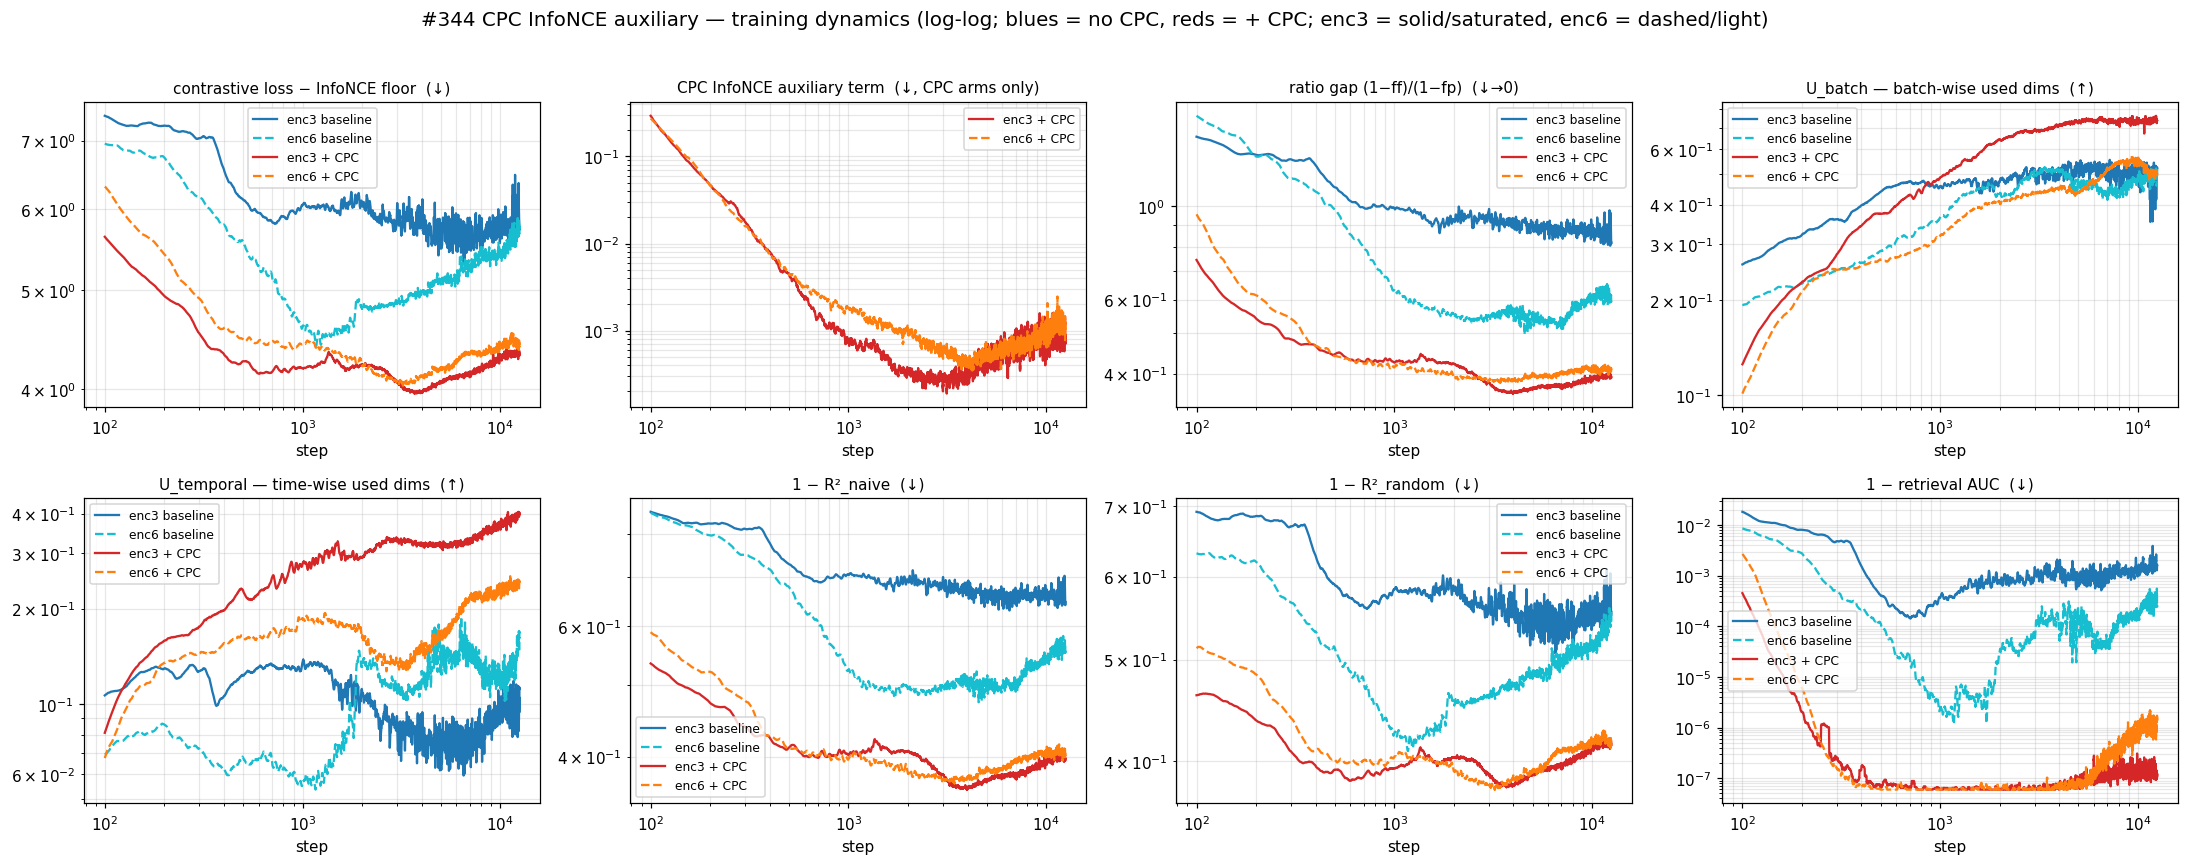
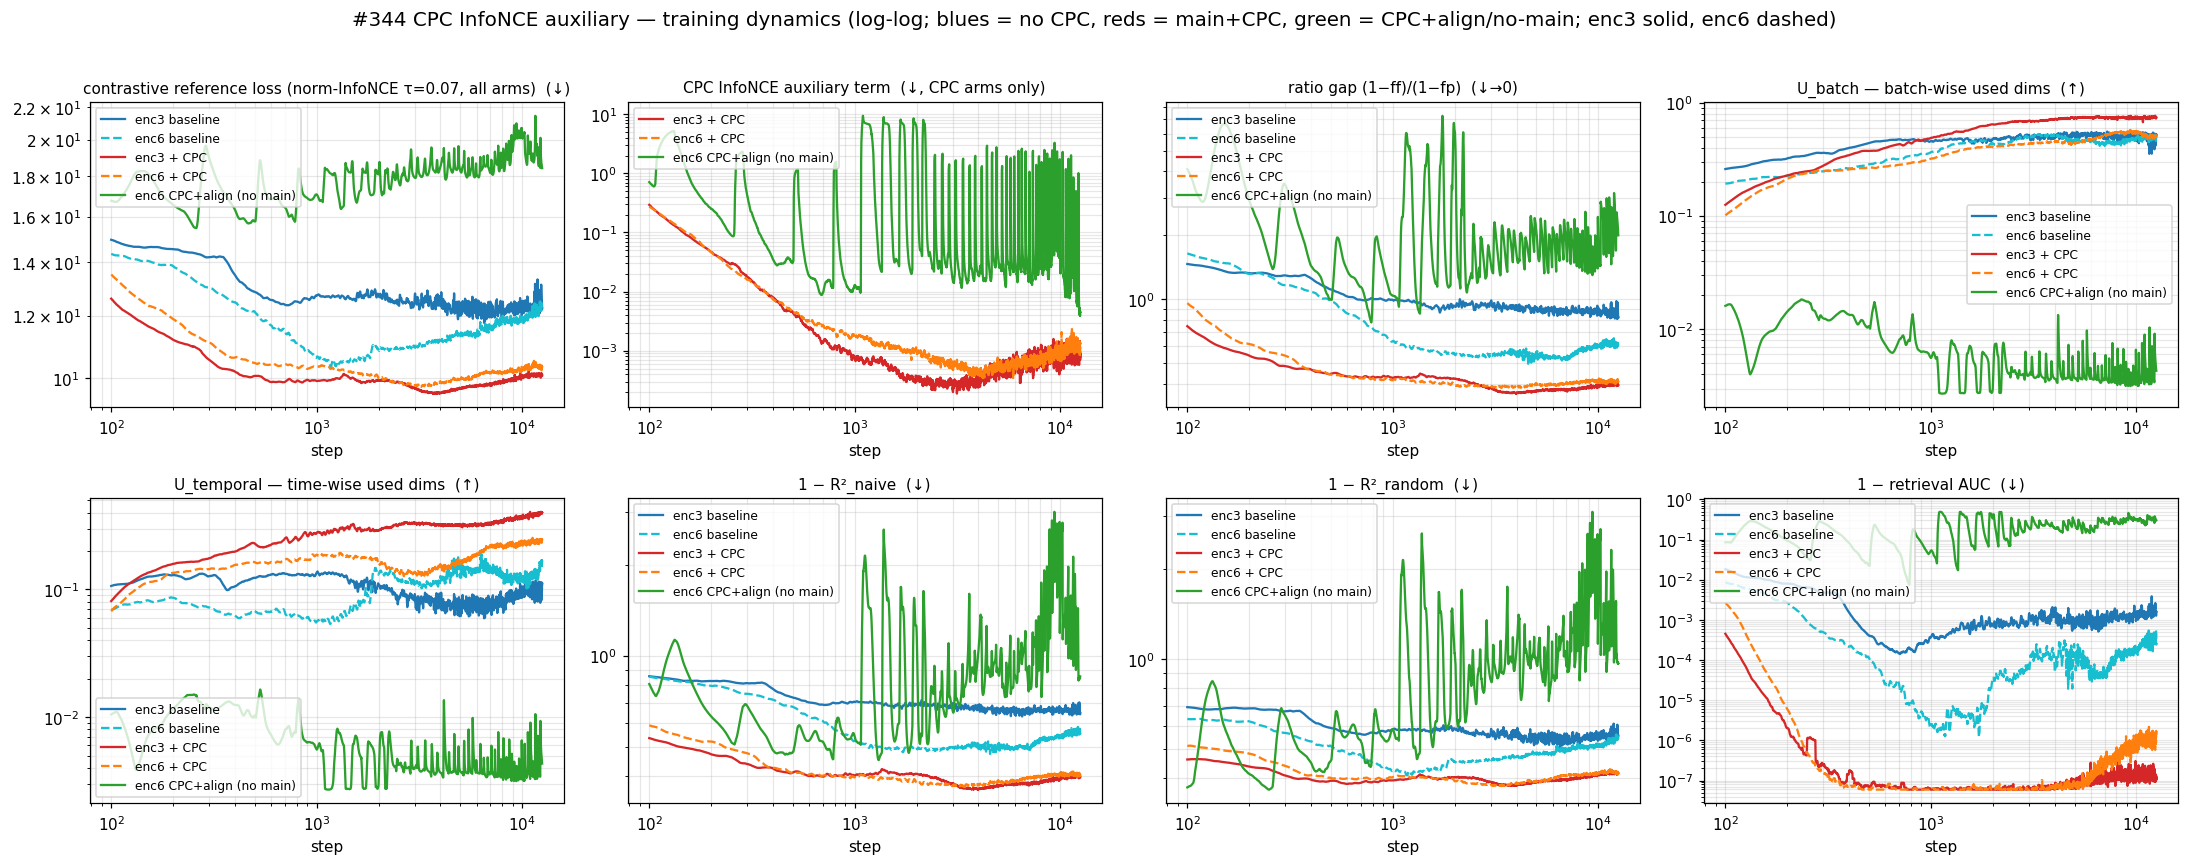
exp(#344): ablation — CPC + align (no main loss) is much worse; add to report
The follow-up arm (enc6, CPC + BYOL align, encoder sg, main contrastive loss
removed; 2-GPU DDP, global batch 1024) is reliably/substantially worse than the
contrastive baseline (GM 2L-best 1.99, 6L-best 1.43; Δ +0.81/+0.27 reliable)
and worse than main+CPC on all 4 cells. The contrastive objective carries the
representation; CPC + a forecaster alignment are additions, not a replacement.
Report gains an Ablation section + cpcalign_gm.png; training_dynamics.png is now
5 arms (panel 1 = loss_tau_ref, comparable across all arms).

diff --git a/experiments/2026-06-13_cpc_infonce_aux/scripts/plot_training_dynamics_cpc.py b/experiments/2026-06-13_cpc_infonce_aux/scripts/plot_training_dynamics_cpc.py
@@ -22,12 +22,13 @@ W = "/home/jupyter/workspaces/contrastive-forecasting/experiments"
 #             enc3 = solid + the saturated hue (blue / red)
 #             enc6 = dashed + the lighter hue (cyan / orange-red)
 BLUE, CYAN = "#1f77b4", "#17becf"
-RED, ORANGERED = "#d62728", "#ff7f0e"
+RED, ORANGERED, GREEN = "#d62728", "#ff7f0e", "#2ca02c"
 RUNS = {
     "enc3 baseline": (f"{W}/2026-06-10_stopgrad_positive/runs/bb_allt08_xftrip_nobn_enc3_sgpos_qk_aon_b1024_losses.csv", BLUE, "-"),
     "enc6 baseline": (f"{W}/2026-06-11_stopgrad_capacity/runs/bb_allt08_xftrip_nobn_enc6_sgpos_qk_aon_b1024_losses.csv", CYAN, "--"),
     "enc3 + CPC":    (f"{W}/2026-06-13_cpc_infonce_aux/runs/bb_allt08_xftrip_nobn_enc3_sgpos_qk_aon_b1024_cpc_losses.csv", RED, "-"),
     "enc6 + CPC":    (f"{W}/2026-06-13_cpc_infonce_aux/runs/bb_allt08_xftrip_nobn_enc6_sgpos_qk_aon_b1024_cpc_losses.csv", ORANGERED, "--"),
+    "enc6 CPC+align (no main)": (f"{W}/2026-06-13_cpc_infonce_aux/runs/bb_allt08_xftrip_nobn_enc6_cpcalign_qk_aon_b1024_cpc_losses.csv", GREEN, "-"),
 }
 OUT = os.path.join(os.path.dirname(__file__), "..", "plots", "training_dynamics.png")
 SMOOTH = 25
@@ -35,7 +36,7 @@ START_STEP = 100  # drop the noisy warm-up (and the CPC term's huge init value)
 
 # (column, title, transform). "contrastive" and "cpc_aux" are derived/optional.
 PANELS = [
-    ("contrastive", "contrastive loss − InfoNCE floor  (↓)", lambda v: v),
+    ("loss_tau_ref", "contrastive reference loss (norm-InfoNCE τ=0.07, all arms)  (↓)", lambda v: v),
     ("cpc_aux",     "CPC InfoNCE auxiliary term  (↓, CPC arms only)", lambda v: v),
     ("gap_ratio",   "ratio gap (1−ff)/(1−fp)  (↓→0)", lambda v: v),
     ("u_batch",     "U_batch — batch-wise used dims  (↑)", lambda v: v),
@@ -98,8 +99,8 @@ def main():
         ax.set_xlabel("step")
         ax.grid(alpha=0.3, which="both")
         ax.legend(fontsize=8)
-    fig.suptitle("#344 CPC InfoNCE auxiliary — training dynamics (log-log; "
-                 "blues = no CPC, reds = + CPC; enc3 = solid/saturated, enc6 = dashed/light)",
+    fig.suptitle("#344 CPC InfoNCE auxiliary — training dynamics (log-log; blues = no CPC, "
+                 "reds = main+CPC, green = CPC+align/no-main; enc3 solid, enc6 dashed)",
                  fontsize=13)
     fig.tight_layout(rect=[0, 0, 1, 0.96])
     os.makedirs(os.path.dirname(OUT), exist_ok=True)

diff --git a/experiments/2026-06-13_cpc_infonce_aux/scripts/plot_cpcalign_gm.py b/experiments/2026-06-13_cpc_infonce_aux/scripts/plot_cpcalign_gm.py
@@ -1,0 +1,51 @@
+#!/usr/bin/env python3
+"""#344 follow-up — GM-Relative MASE of the enc6 CPC+align/no-main arm against
+the enc6 baseline (contrastive loss) and the enc6 main+CPC arm, per head ×
+checkpoint. Reads results/gm_table.csv. Writes plots/cpcalign_gm.png.
+"""
+import csv
+import os
+
+import matplotlib
+matplotlib.use("Agg")
+import matplotlib.pyplot as plt
+
+RES = "/home/jupyter/workspaces/contrastive-forecasting/experiments/2026-06-13_cpc_infonce_aux/results"
+OUT = os.path.join(os.path.dirname(__file__), "..", "plots", "cpcalign_gm.png")
+CLIP = 1.45
+
+
+def main():
+    rows = list(csv.DictReader(open(f"{RES}/gm_table.csv")))
+    gm = {(r["arm"], r["head"], r["ckpt"]): (float(r["gm"]) if r["gm"] not in ("", "--") else None)
+          for r in rows}
+    cells = [("2L", "best"), ("2L", "last"), ("6L", "best"), ("6L", "last")]
+    series = [("enc6 baseline (contrastive)", "base_enc6", "0.6"),
+              ("enc6 main + CPC", "cpc_enc6", "C2"),
+              ("enc6 CPC + align, NO main loss", "cpcalign_enc6", "C3")]
+    x = range(len(cells)); w = 0.26
+    fig, ax = plt.subplots(figsize=(11, 6))
+    for i, (label, key, color) in enumerate(series):
+        vals = [gm.get((key, h, c)) for h, c in cells]
+        xs = [j + (i - 1) * w for j in x]
+        ax.bar(xs, [min(v, CLIP) if v else 0 for v in vals], w, label=label, color=color)
+        for xj, v in zip(xs, vals):
+            if v and v > CLIP:
+                ax.text(xj, CLIP, f"{v:.2f}", ha="center", va="bottom", fontsize=8, rotation=90)
+    ax.axhline(1.0, color="k", lw=0.8, ls=":", label="seasonal-naive")
+    ax.set_ylim(1.1, CLIP + 0.04)
+    ax.set_xticks(list(x)); ax.set_xticklabels([f"{h} {c}" for h, c in cells])
+    ax.set_ylabel("GM-Relative MASE (lower better)")
+    ax.set_title("Can CPC + a separate forecaster loss replace the contrastive loss? No.\n"
+                 "enc6: baseline vs main+CPC vs CPC+align/no-main (bars clipped at "
+                 f"{CLIP}, true value labelled)", fontsize=11)
+    ax.legend(fontsize=9)
+    ax.grid(axis="y", alpha=0.3)
+    fig.tight_layout()
+    os.makedirs(os.path.dirname(OUT), exist_ok=True)
+    fig.savefig(OUT, dpi=110, bbox_inches="tight")
+    print("wrote", os.path.abspath(OUT))
+
+
+if __name__ == "__main__":
+    main()

diff --git a/experiments/2026-06-13_cpc_infonce_aux/cpc_infonce_aux.md b/experiments/2026-06-13_cpc_infonce_aux/cpc_infonce_aux.md
@@ -11,7 +11,9 @@ late-training stability?
 **Answer.** It does not move the best-loss checkpoint (4/4 cells neutral), but it **reliably
 improves the last, full-training checkpoint** (4/4 cells better, every 90% interval below zero) —
 reversing the late-training degradation the baselines show. The CPC term is a late-training
-stabiliser, not a peak-performance lever.
+stabiliser, not a peak-performance lever. A further ablation (below) shows the CPC term is an
+*addition* to the contrastive loss, not a replacement: training on CPC + a separate forecaster
+alignment with the contrastive loss removed is reliably and substantially worse.
 
 ## Result
 
@@ -56,19 +58,50 @@ enc6 + bottleneck + stop-grad arm (#341 arm 4) that *collapsed* at the last chec
 
 ## Training dynamics: the term vanishes, the representation does not
 
-![Training metrics, log-log (blues = no CPC, reds = + CPC; enc3 solid/saturated, enc6
-dashed/light). The CPC term itself (top row, 2nd panel) plunges from its early peak (~19) to
-<10⁻³ within the first ~1,000 steps; yet the CPC arms' contrastive reference loss, ratio-gap,
-1−R², and 1−AUC all sit below the baselines, and their time-wise dimension usage (U_temporal) sits
-above.](plots/training_dynamics.png)
+![Training metrics, log-log (blues = no CPC, reds = main + CPC, green = the CPC+align/no-main arm
+below; enc3 solid, enc6 dashed). Panel 1 is the contrastive reference loss (normalized InfoNCE at
+τ=0.07, logged for every arm). The CPC term (top row, 2nd panel) plunges from its early peak (~19)
+to <10⁻³ within ~1,000 steps for the main+CPC arms; the CPC arms' reference loss, ratio-gap, 1−R²,
+and 1−AUC all sit below the baselines, with higher time-wise dimension usage
+(U_temporal).](plots/training_dynamics.png)
 
 The unbounded bilinear `W₁` drives the CPC loss to ~0 almost immediately — by step ~1,000 it
 contributes a vanishing *value*. But its early gradient reshapes the representation: the CPC arms
 reach a markedly lower contrastive reference loss (≈10.2 vs ≈12.3–12.4), a lower ratio-gap
 (≈0.40 vs 0.62–0.85, roughly halved for enc3), near-perfect retrieval (AUC→1.0) and higher
-time-wise dimension usage than the baselines, and they hold those through to the end. So the pretext task is learned better — but, per the table above, that pretext
-improvement does not raise the best-loss transfer; it surfaces only as a steadier, better
-last checkpoint.
+time-wise dimension usage than the baselines, and they hold those through to the end. So the
+pretext task is learned better — but, per the table above, that pretext improvement does not raise
+the best-loss transfer; it surfaces only as a steadier, better last checkpoint.
+
+## Ablation: can CPC + a separate forecaster loss replace the contrastive loss? No
+
+The auxiliary CPC term helps, so a natural question is whether CPC plus a *separate* forecaster
+loss could stand in for the contrastive objective entirely. We trained one more enc6 arm on
+**CPC + the BYOL align term (encoder target stop-gradded), with the main contrastive loss removed**
+— same recipe otherwise. (To keep it comparable at a fraction of the wall-clock, this arm ran
+2-GPU DDP at per-rank batch 512: the loss pools the gathered global batch of 1024, identical to the
+single-GPU baselines.)
+
+![enc6 GM-Relative MASE: baseline (contrastive, grey) vs main+CPC (green) vs CPC+align/no-main
+(red), per head × checkpoint (bars clipped at 1.45, true value labelled). The CPC+align/no-main
+bars tower over both — worst at the best-loss 2L cell (1.99).](plots/cpcalign_gm.png)
+
+Removing the contrastive loss is **reliably and substantially worse**, not better:
+
+| cell | baseline | + CPC | CPC+align, no main | Δ vs baseline (90% CI) |
+|---|--:|--:|--:|--:|
+| enc6 · 2L best | 1.180 | 1.179 | **1.993** | +0.813 (+0.71, +0.93) |
+| enc6 · 2L last | 1.213 | 1.180 | **1.378** | +0.164 (+0.13, +0.21) |
+| enc6 · 6L best | 1.161 | 1.158 | **1.432** | +0.272 (+0.23, +0.33) |
+| enc6 · 6L last | 1.193 | 1.162 | **1.214** | +0.021 (−0.01, +0.05) · ns |
+
+Three of four cells are reliably worse (the fourth only ties, and only because the baseline's own
+6L-last is already degraded); against the main+CPC arm all four are reliably worse. The training
+dynamics show why: without the contrastive loss anchoring the representation, the CPC term never
+settles — it oscillates ~0.01↔10 for the whole run (green, top-row 2nd panel), and the green arm's
+contrastive reference loss, 1−R², and 1−AUC stay elevated and noisy throughout. **The contrastive
+objective carries the representation; CPC and a forecaster alignment are useful additions to it,
+not a replacement for it.**
 
 ## Protocol
 

diff --git a/experiments/2026-06-13_cpc_infonce_aux/EXECUTION_LOG.md b/experiments/2026-06-13_cpc_infonce_aux/EXECUTION_LOG.md
@@ -63,3 +63,11 @@ loss"); CPC cross-batch negatives + align span both GPUs. ~2× faster (~6h). The
 partial (step ~400, only best_loss.pth, no periodic full-state ckpt) was NOT resumable across the
 single→DDP topology change, so it was cleared for a clean CSV (no single+DDP mix). Crash-resume:
 supervisor --resume's the latest periodic _Nk.pth; train.py appends to the same CSV (conserved).
+
+### cpcalign final result (2026-06-15)
+All 4 cells done (4-wide eval). GM: 2L best 1.993, 2L last 1.378, 6L best 1.432, 6L last 1.214 —
+reliably/substantially WORSE than baseline (Δ +0.81/+0.16/+0.27 reliable; 6L-last +0.02 ns) and
+worse than main+CPC on all 4. Verdict: CPC + a separate forecaster loss does NOT replace the
+contrastive loss. Training was persistently unstable (CPC term oscillates ~0.01↔10; elevated
+reference loss / 1−R² / 1−AUC). Added as the report's Ablation section + plots/cpcalign_gm.png;
+training_dynamics.png now 5 arms (panel 1 = loss_tau_ref, comparable across all). Task #6 done.
